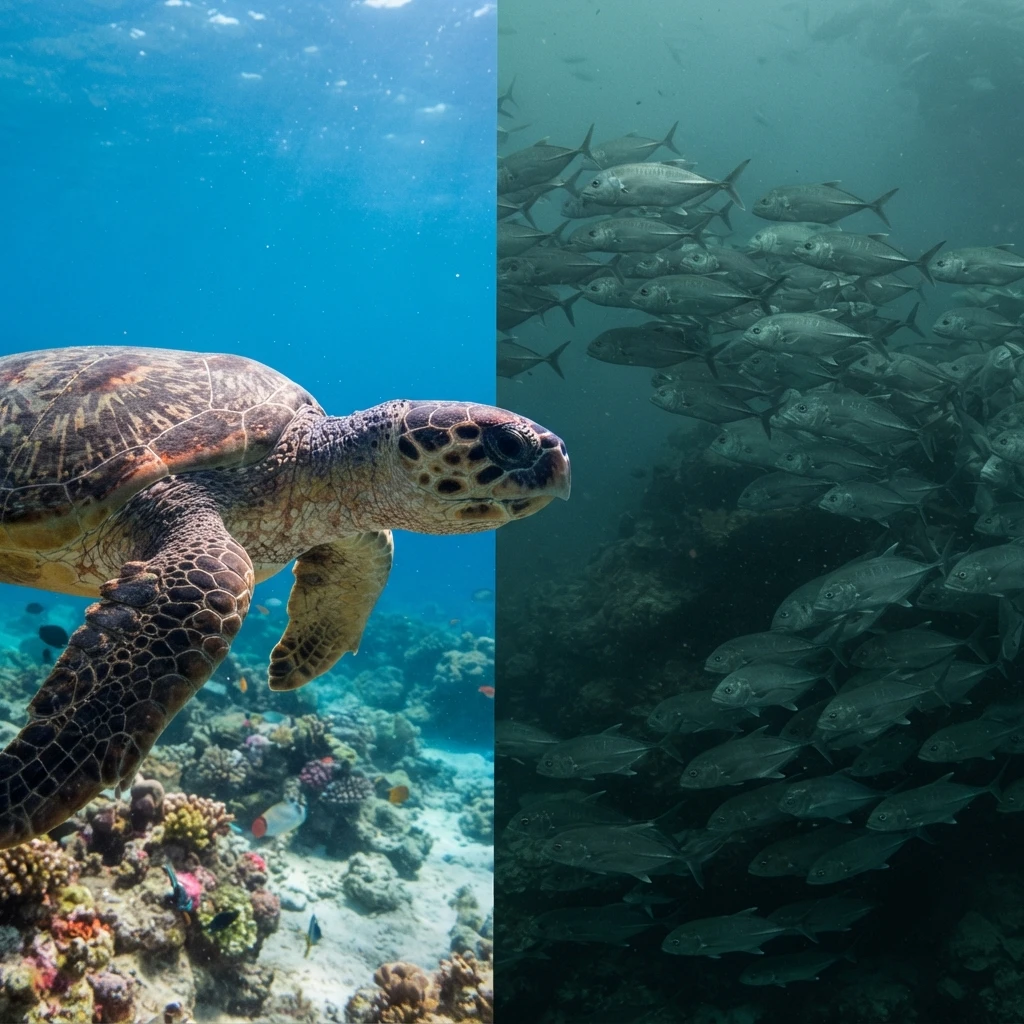
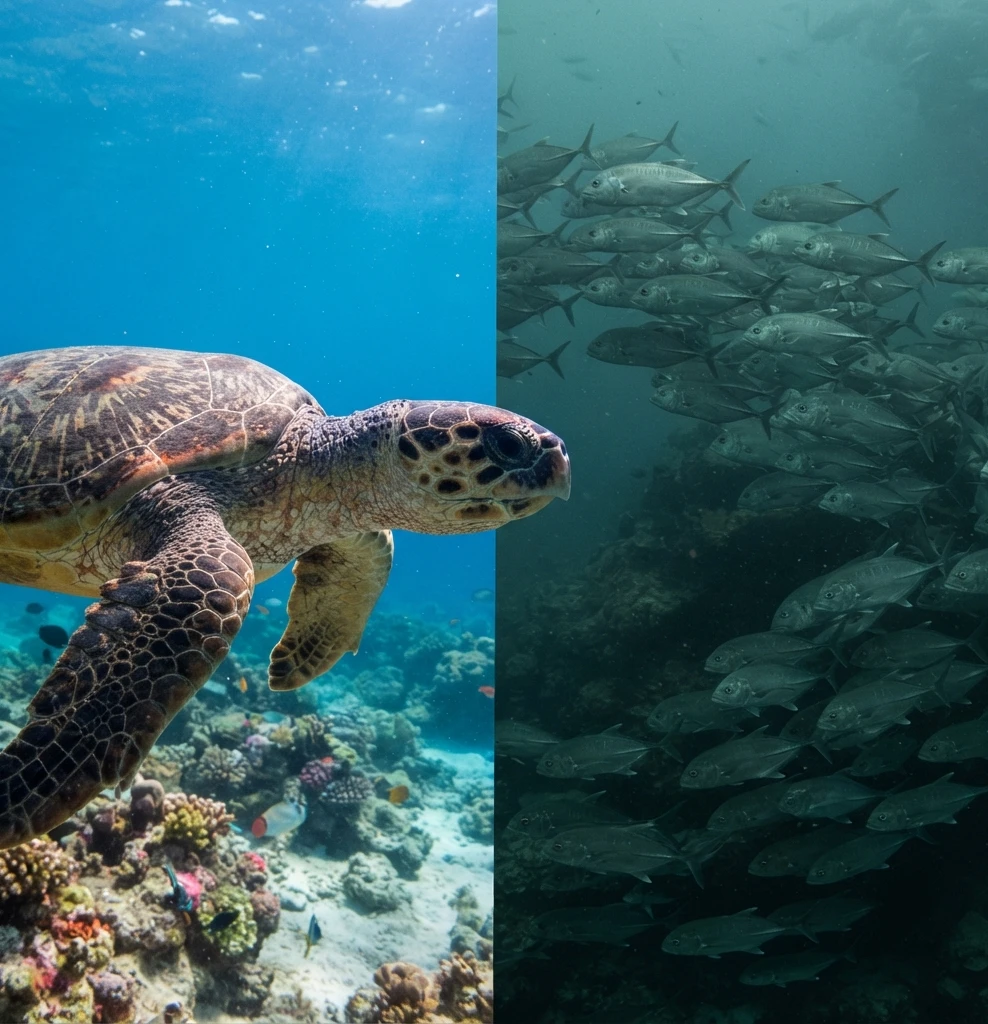
proto v3: 디졸브 끊김 해결(다음 그림 먼저 움직임), 머니파이 1번째 삭제, 거북이 가르는 선 정중앙
Claude-Session: https://claude.ai/code/session_012p9REnXPvjp6fop7YDYTha

diff --git a/proto/v3.html b/proto/v3.html
@@ -64,8 +64,8 @@ img{display:block;max-width:100%}
 .slide{position:absolute;inset:0;opacity:0;transition:opacity 2.8s var(--slow)}
 .slide img{width:100%;height:100%;object-fit:cover;transform:scale(1.02)}
 .slide.on{opacity:1}
-.slide.on img{animation:kb 14s linear forwards}
-.slide:nth-child(even).on img{animation-name:kb2}
+.slide.run img{animation:kb 15s linear forwards}
+.slide:nth-child(even).run img{animation-name:kb2}
 @keyframes kb {from{transform:scale(1.02) translate(0,0)}to{transform:scale(1.12) translate(-1.5%,-1%)}}
 @keyframes kb2{from{transform:scale(1.12) translate(1%,0)}to{transform:scale(1.03) translate(0,1%)}}
 .hov{position:absolute;inset:0;opacity:0;z-index:1;transition:opacity 1.2s var(--slow)}
@@ -74,7 +74,8 @@ img{display:block;max-width:100%}
 .hov img{transform:scale(1)}
 .hov.on:not(.seq) img{animation:zin 9s linear forwards}            /* 한 장: 커서를 올린 동안 천천히 줌인 */
 .hov.seq img{position:absolute;inset:0;opacity:0;transition:opacity 1.4s var(--slow)}
-.hov.seq img.cur{opacity:1;animation:zin 6s linear forwards}       /* 여러 장: 차례로 줌인하며 겹쳐 바뀜 */
+.hov.seq img.cur{opacity:1}
+.hov.seq img.run{animation:zin 7.5s linear forwards}       /* 여러 장: 차례로 줌인하며 겹쳐 바뀜 */
 @keyframes zin{from{transform:scale(1)}to{transform:scale(1.15)}}
 .hero .fix::after{content:'';position:absolute;inset:0;z-index:2;background:linear-gradient(180deg,rgba(20,28,34,.28) 0%,rgba(20,28,34,0) 30%,rgba(20,28,34,0) 55%,rgba(20,28,34,.45) 100%);pointer-events:none}
 .hero .copy{position:absolute;left:28px;right:28px;bottom:calc(84px + env(safe-area-inset-bottom));z-index:2;color:#fff}
@@ -173,7 +174,7 @@ body.at-top .dropzone{display:block}
 }
 /* 움직임 줄이기 설정 존중 */
 @media (prefers-reduced-motion:reduce){
-  .slide.on img,.hero .dots i.on::after,.hero .scroll::after{animation:none}
+  .slide.run img,.hov.seq img.run,.hero .dots i.on::after,.hero .scroll::after{animation:none}
   .reveal{opacity:1;transform:none;transition:none}
 }
 </style>
@@ -200,11 +201,11 @@ body.at-top .dropzone{display:block}
 <!-- 첫 화면 -->
 <div class="hero panel" id="top">
   <div class="fix" data-speed="0.3">
-  <div class="slide on"><img src="v3/g1.webp" alt=""></div>
+  <div class="slide on run"><img src="v3/g1.webp" alt=""></div>
   <div class="slide"><img data-src="v3/g3.webp" alt=""></div>
   <div class="slide"><img data-src="v3/g4.webp" alt=""></div>
   <div class="hov" id="hov-dtmd"><video data-src="v3/fish.mp4" poster="v3/fish-poster.jpg" muted loop playsinline preload="none" aria-hidden="true"></video></div>
-  <div class="hov seq" id="hov-money"><img data-src="v3/money1.webp" alt=""><img data-src="v3/money2.webp" alt=""><img data-src="v3/money3.webp" alt=""><img data-src="v3/money4.webp" alt=""></div>
+  <div class="hov seq" id="hov-money"><img data-src="v3/money2.webp" alt=""><img data-src="v3/money3.webp" alt=""><img data-src="v3/money4.webp" alt=""></div>
   <div class="hov" id="hov-dtme"><img data-src="v3/dtme-bg.webp" alt=""></div>
   <div class="hov" id="hov-mosco"><img data-src="v3/mosco-bg.webp" alt="" style="object-position:50% 30%"></div>
   </div>
@@ -265,10 +266,15 @@ body.at-top .dropzone{display:block}
   function go(){
     var n=(i+1)%N,im=slides[n].querySelector('img');
     if(im.dataset.src||!im.complete){setTimeout(go,1000);return}   // 아직 안 받았으면 기다림
-    slides[i].classList.remove('on');ds[i].className='';
-    void ds[n].offsetWidth;
-    slides[n].classList.add('on');ds[n].className='on';i=n;
-    setTimeout(go,T);
+    var prev=slides[i];
+    slides[n].classList.add('run');                          // 다음 그림이 먼저 움직이기 시작
+    setTimeout(function(){
+      prev.classList.remove('on');ds[i].className='';        // 나가는 그림은 움직임을 유지한 채 사라짐
+      void ds[n].offsetWidth;
+      slides[n].classList.add('on');ds[n].className='on';i=n;
+      setTimeout(function(){if(!prev.classList.contains('on'))prev.classList.remove('run')},3200);
+      setTimeout(go,T-1000);
+    },1000);
   }
   if(!still)setTimeout(go,T);
   // 탭이 숨겨지면 멈췄다가 다시 시작해 슬라이드가 몰려 넘어가지 않게
@@ -359,15 +365,22 @@ body.at-top .dropzone{display:block}
   [].forEach.call(drop.querySelectorAll('[data-bg]'),function(a){
     var layer=document.getElementById(a.dataset.bg),v=layer.querySelector('video');
     var imgs=[].slice.call(layer.querySelectorAll('img')),seqT=null,si=0;
-    function seqStep(){imgs.forEach(function(im,k){im.classList.toggle('cur',k===si)});si=(si+1)%imgs.length;seqT=setTimeout(seqStep,4000)}
+    var preT=null,curK=-1;
+    function seqShow(k){                                     // 다음 그림은 0.8초 먼저 움직이고, 나가는 그림은 움직이며 사라짐
+      var p=curK;imgs[k].classList.add('run','cur');
+      if(p>=0&&p!==k){imgs[p].classList.remove('cur');setTimeout(function(){if(!imgs[p].classList.contains('cur'))imgs[p].classList.remove('run')},1700)}
+      curK=k;var nx=(k+1)%imgs.length;
+      preT=setTimeout(function(){imgs[nx].classList.add('run')},3200);
+      seqT=setTimeout(function(){seqShow(nx)},4000);
+    }
     a.addEventListener('mouseenter',function(){
       layer.classList.add('on');
-      if(layer.classList.contains('seq')){clearTimeout(seqT);si=0;seqStep()}
+      if(layer.classList.contains('seq')){clearTimeout(seqT);clearTimeout(preT);curK=-1;imgs.forEach(function(im){im.classList.remove('cur','run')});seqShow(0)}
       if(v&&!still){if(v.dataset.src){v.src=v.dataset.src;v.removeAttribute('data-src')}var pr=v.play();if(pr&&pr.catch)pr.catch(function(){})}
     });
     a.addEventListener('mouseleave',function(){
-      layer.classList.remove('on');clearTimeout(seqT);
-      setTimeout(function(){if(!layer.classList.contains('on'))imgs.forEach(function(im){im.classList.remove('cur')})},1300);
+      layer.classList.remove('on');clearTimeout(seqT);clearTimeout(preT);
+      setTimeout(function(){if(!layer.classList.contains('on'))imgs.forEach(function(im){im.classList.remove('cur','run')});curK=-1},1300);
       if(v)setTimeout(function(){if(!layer.classList.contains('on'))v.pause()},1300);
     });
   });

diff --git a/proto/HANDOFF.md b/proto/HANDOFF.md
@@ -11,13 +11,13 @@
 - 배포 확인: push 후 `sync.yml`을 workflow_dispatch로 실행하면 1~2분 안에 반영.
 
 ## v3 현재 구성 (위→아래)
-1. 첫 화면: 임시 그림 3장(g1 수평선·g3 산·g4 해질녘) 8초마다 크로스페이드 + 천천히 확대. 글자 없음. 진행 표시줄만.
+1. 첫 화면: 임시 그림 3장(g1 수평선·g3 산·g4 해질녘) 8초마다 크로스페이드 + 천천히 확대(다음 그림이 1초 먼저 움직이고, 나가는 그림은 움직이며 사라짐 — 툭툭 걸림 해결). 글자 없음. 진행 표시줄만.
    - 숨은 입력: 첫 화면에서 키보드로 ART 또는 IZO → https://kangizo.com (폰은 키보드가 없어 미동작)
    - 앱 아이콘 내려오기: 상단 가운데(가로 40%·세로 30%) 마우스 올림 → 4개가 차례로 내려옴(투명도 없이 불투명), 벗어나면 0.7초 뒤 올라감. 터치·클릭하면 토글(6초 뒤 자동 숨김). 반 화면 이상 내리면 숨김
    - 아이콘 호버 배경(1.2초 크로스페이드, 커서 떼면 원래 슬라이드로, 터치 기기 미동작):
-     · 머니파이 → money1(관제실, 제미니 마크 잘라냄)·money2(거래소 낮은 시점)·money3(거래소 전경)·money4(성조기 앞 차트 태블릿) 4초 간격으로 차례로 6초 줌인(1→1.15)하며 겹쳐 바뀜
+     · 머니파이 → money2(거래소 낮은 시점)·money3(거래소 전경)·money4(성조기 앞 차트 태블릿) 4초 간격 순환, 7.5초 줌인(1→1.15). 다음 그림이 0.8초 먼저 움직이고 나가는 그림은 움직이며 사라짐(관제실 money1은 삭제)
      · DTMD → 물고기 영상(fish.mp4)
-     · DTME → 거북이·물고기 사진(dtme-bg) 9초 줌인
+     · DTME → 거북이·물고기 사진(dtme-bg, 가르는 선 x=494가 정중앙 되도록 0~988로 잘라냄) 9초 줌인
      · MOSCO → 공주 사진(mosco-bg, 얼굴 쪽 위 30% 기준) 9초 줌인
      · 이미지는 사용자 PNG를 WebP 품질 90으로
 2. 소개 1줄 "필요해서 만든 것들을 모아 둡니다." (앞 2줄 삭제 2026-11-16)
